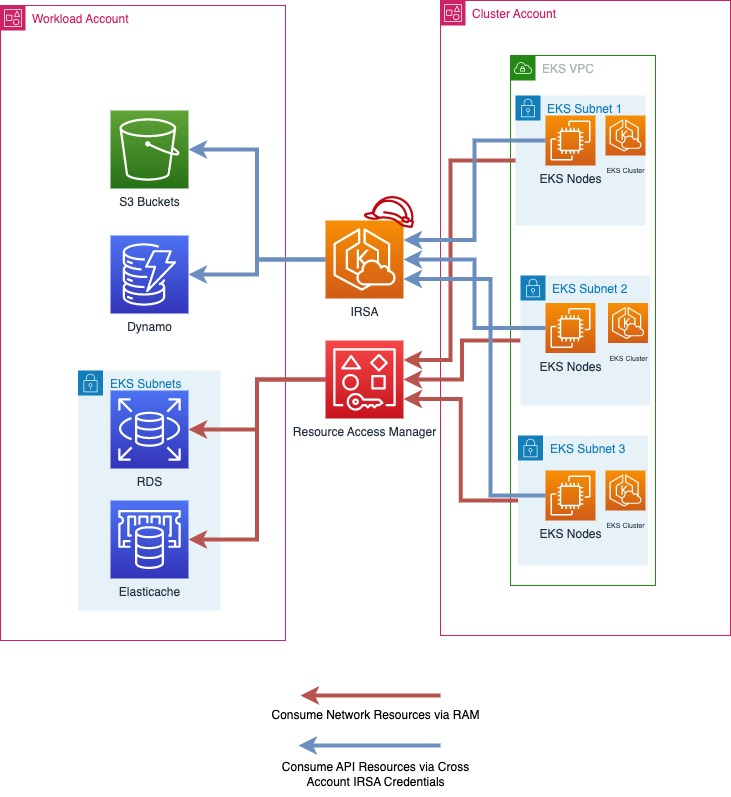
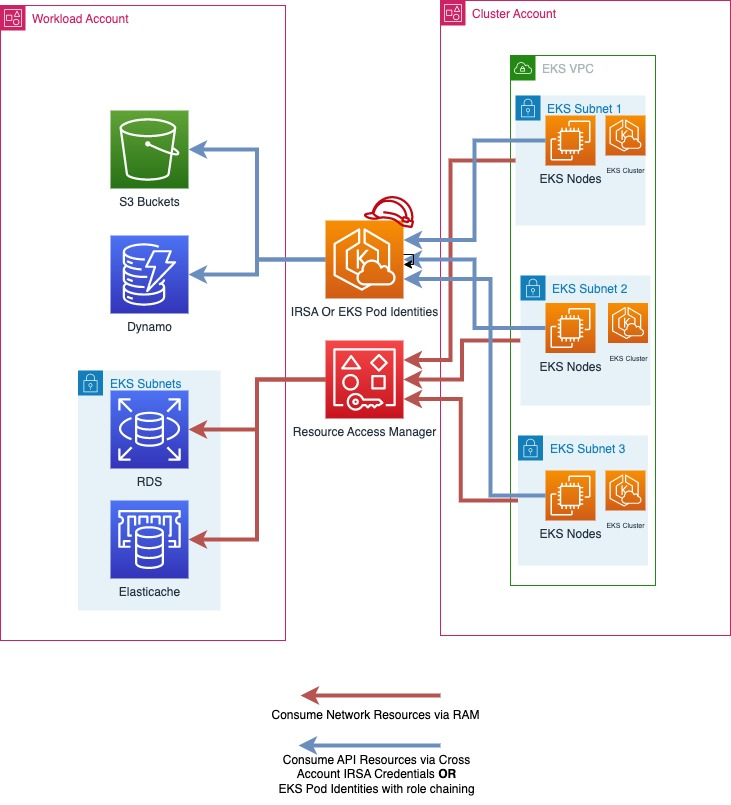
Added EKS Pod Identities

diff --git a/content/security/docs/multiaccount.md b/content/security/docs/multiaccount.md
@@ -21,7 +21,7 @@ You can adopt the following approaches when implementing EKS Multi account strat
 
 ## Centralized EKS Cluster
 
-In this approach, your EKS Cluster will be deployed in a single AWS account called the `Cluster Account`. Using [IAM roles for Service Accounts (IRSA)](https://docs.aws.amazon.com/eks/latest/userguide/iam-roles-for-service-accounts.html) and [AWS Resource Access Manager (RAM)](https://aws.amazon.com/ram/) you can adapt a multi account strategy for your multi tenant EKS cluster. The cluster account will contain the VPC, subnets, EKS cluster, EC2/Fargate compute resources(nodes), and any additional networking or configurations needed to run your EKS cluster.
+In this approach, your EKS Cluster will be deployed in a single AWS account called the `Cluster Account`. Using [IAM roles for Service Accounts (IRSA)](https://docs.aws.amazon.com/eks/latest/userguide/iam-roles-for-service-accounts.html) or [EKS Pod Identities](https://docs.aws.amazon.com/eks/latest/userguide/pod-identities.html) to deliver tempoary AWS credentials and [AWS Resource Access Manager (RAM)](https://aws.amazon.com/ram/) to simplify network access you can adopt a multi account strategy for your multi tenant EKS cluster. The cluster account will contain the VPC, subnets, EKS cluster, EC2/Fargate compute resources(nodes), and any additional networking or configurations needed to run your EKS cluster.
 
 In a multi workload account strategy for multi tenant cluster, AWS accounts typically align with [kubernetes namespaces](https://kubernetes.io/docs/concepts/overview/working-with-objects/namespaces/) as a mechanism for isolating groups of resources. [Best practices for tenant isolation](/security/docs/multitenancy/) within an EKS cluster should still be followed when implementing a multi account strategy for multi tenant EKS clusters.
 
@@ -44,6 +44,13 @@ To share a resource via RAM, open up RAM in the AWS console of the cluster accou
 
 RAM shares can also be created programmatically, or with infrastructure as code.
 
+### Choosing Between EKS Pod Identities and IRSA
+
+At re:inforce 2023, AWS launched EKS Pod Identities as a simpler way of delivering temporary AWS credentials to your pods on EKS. Both IRSA and EKS Pod Identities are valid methods for delivering temporary AWS credentials to your EKS pods and will continue to be supported. You should consider which method of delivering best meets your needs.
+
+When working with a EKS cluster and multiple AWS accounts, IRSA can directly assume roles in AWS accounts other than the account the EKS cluster is hosted in directly, while EKS Pod identities require you to configure role chaining.
+
+
 ### Accessing AWS API Resources with IAM Roles For Service Accounts
  
 [IAM Roles for Service Accounts (IRSA)](https://docs.aws.amazon.com/eks/latest/userguide/iam-roles-for-service-accounts.html) allows you to deliver temporary AWS credentials to your workloads running on EKS. IRSA can be used to get temporary credentials for IAM roles in the workload accounts from the cluster account. This allows your workloads running on your EKS clusters in the cluster account to consume AWS API resources, such as S3 buckets hosted in the workload account seemlessly, and use IAM authentication for resources like AWS RDS Databases or AWS EFS FileSystems. 
@@ -58,6 +65,28 @@ Then when configuring IRSA for your workloads on EKS, you can [follow the same s
 
 After this is configured, your application running in EKS will be able to directly use its service account to assume a role in the workload account, and use resources within it.
 
+### Accessing AWS API Resources with EKS Pod Identities
+
+[EKS Pod Identities](https://docs.aws.amazon.com/eks/latest/userguide/pod-identities.html) is a new way of delivering AWS credentials to your workloads running on EKS. EKS pod identities simplifies the configuration of AWS resources as you no longer need to manage OIDC configurations to deliver AWS crednetials to your pods on EKS.
+
+#### Enabling EKS Pod Identities for cross account access
+
+Unlike IRSA, EKS Pod Identities can only be used to directly grant access to a role in the same account as the EKS cluster. To access a role in another AWS account, pods that use EKS Pod Identities must perform [Role Chaining](https://docs.aws.amazon.com/IAM/latest/UserGuide/id_roles_terms-and-concepts.html#iam-term-role-chaining).
+
+Role chaining can be configured in an applications profile with their aws configuration file (`~/.aws/config`) using the (Assume Role Credentials Provider)[https://docs.aws.amazon.com/sdkref/latest/guide/feature-assume-role-credentials.html] available in various AWS SDKs. `EcsContainer` can be used as a credential source when configuring a profile, such as:
+
+```
+[profile RoleChain]
+credential_source = EcsContainer
+role_arn = arn:aws:iam::123456789012:role/role-to-be-assumed-with-chaining
+```
+
+To use the IAM role `arn:aws:iam::123456789012:role/role-to-be-assumed-with-chaining`, you would then specify the profile `RoleChain` when creating your AWS SDK client. For guidance on how to specify a profile, please refer to the documentation appropriate your AWS SDK.
+
+When configuring role trust policies for role chaining with EKS pod identities, you can reference [EKS specific attributes](https://docs.aws.amazon.com/eks/latest/userguide/pod-id-abac.html) and use attribute based access control(ABAC) to limit access to your IAM roles to only specific EKS Pod identities sessions, such as the Kubernetes Service Account a pod belongs to. 
+
+Please note that these attributes may not be universally unique, for example two EKS clusters may have identical namespaces, and one cluster may have identically named service accounts across namespaces. So when granting access via EKS Pod Identities and ABAC it is a best practice to always consider the cluster arn and namespace when granting access to a service account, and cluster ARN when granting access to any service account within a namespace.
+
 ## De-centralized EKS Clusters
 
 In this approach, EKS clusters are deployed to respective workload AWS Accounts and live along side with other AWS resources like S3 buckets, VPCs,DynamoDB tables, etc., Each workload account is independent, self-sufficient, and operated by respective Business Unit/Application teams. This model allows the creation of reusuable blueprints for various cluster capabilities (AI/ML cluster, Batch processing, General purpose, etc.,) and vend the clusters based on the application team requirements. Both application and platform teams operate out of their respective [GitOps](https://www.weave.works/technologies/gitops/) repositories to manage the deployments to the workload clusters.
@@ -66,7 +95,7 @@ In this approach, EKS clusters are deployed to respective workload AWS Accounts 
 
 GitOps is a way of managing application and infrastructure deployment so that the whole system is described declaratively in a Git repository. It’s an operational model that offers you the ability to manage the state of multiple Kubernetes clusters using the best practices of version control, immutable artifacts, and automation. In this multi cluster model, each workload cluster is bootstrapped with multiple Git repos, allowing each team (application, platform, security, etc.,) to deploy their respective changes on the cluster. 
 
-You would utilize [IAM roles for Service Accounts (IRSA)](https://docs.aws.amazon.com/eks/latest/userguide/iam-roles-for-service-accounts.html) in each account to allow your EKS workloads to get temporary aws credentials to securely access other AWS resources. IAM roles are created in respective workload AWS Accounts and map them to k8s service accounts to provide temporary IAM access. So, no cross-account access is required in this approach. Follow the [IAM roles for Service Accounts](https://docs.aws.amazon.com/eks/latest/userguide/iam-roles-for-service-accounts.html) documentation on how to setup in each workload account.
+You would utilize [IAM roles for Service Accounts (IRSA)](https://docs.aws.amazon.com/eks/latest/userguide/iam-roles-for-service-accounts.html) or [EKS Pod Identities](https://docs.aws.amazon.com/eks/latest/userguide/pod-identities.html) in each account to allow your EKS workloads to get temporary aws credentials to securely access other AWS resources. IAM roles are created in respective workload AWS Accounts and map them to k8s service accounts to provide temporary IAM access. So, no cross-account access is required in this approach. Follow the [IAM roles for Service Accounts](https://docs.aws.amazon.com/eks/latest/userguide/iam-roles-for-service-accounts.html) documentation on how to setup in each workload for IRSA, and [EKS Pod Identities](https://docs.aws.amazon.com/eks/latest/userguide/pod-identities.html) documentation on how to setup EKS pod identities in each account.
 
 
 ## Centralized vs De-centralized EKS clusters
